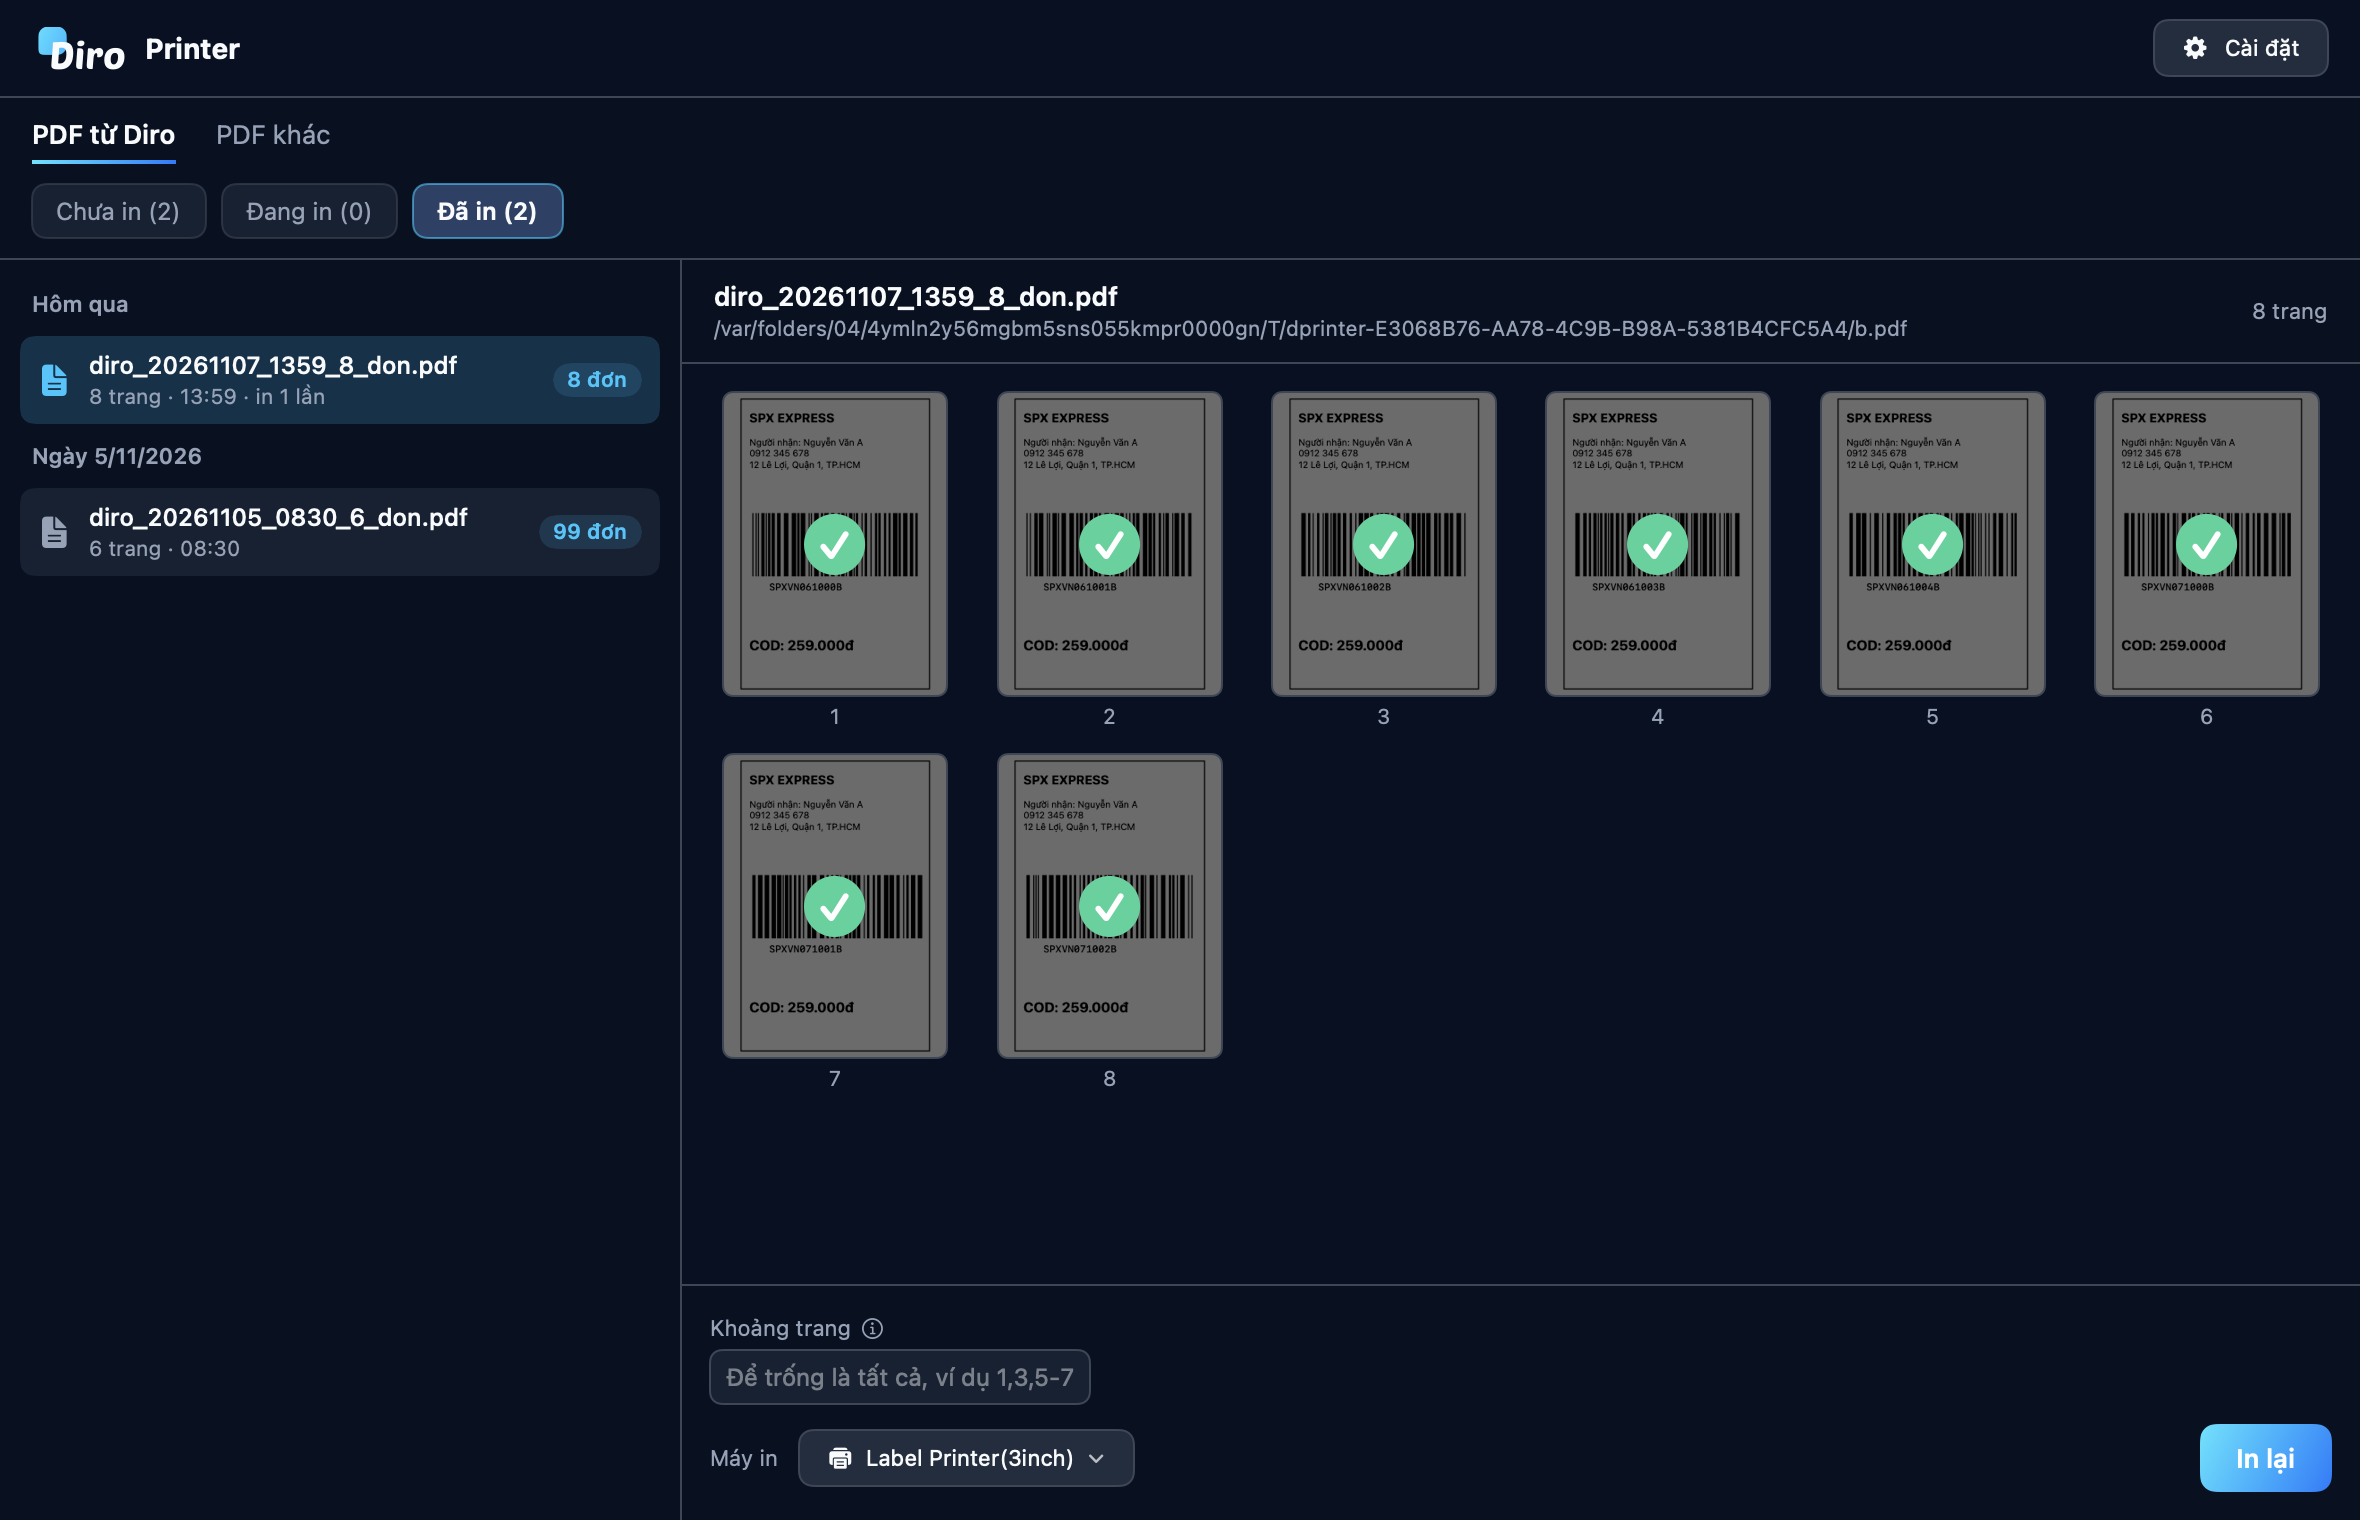
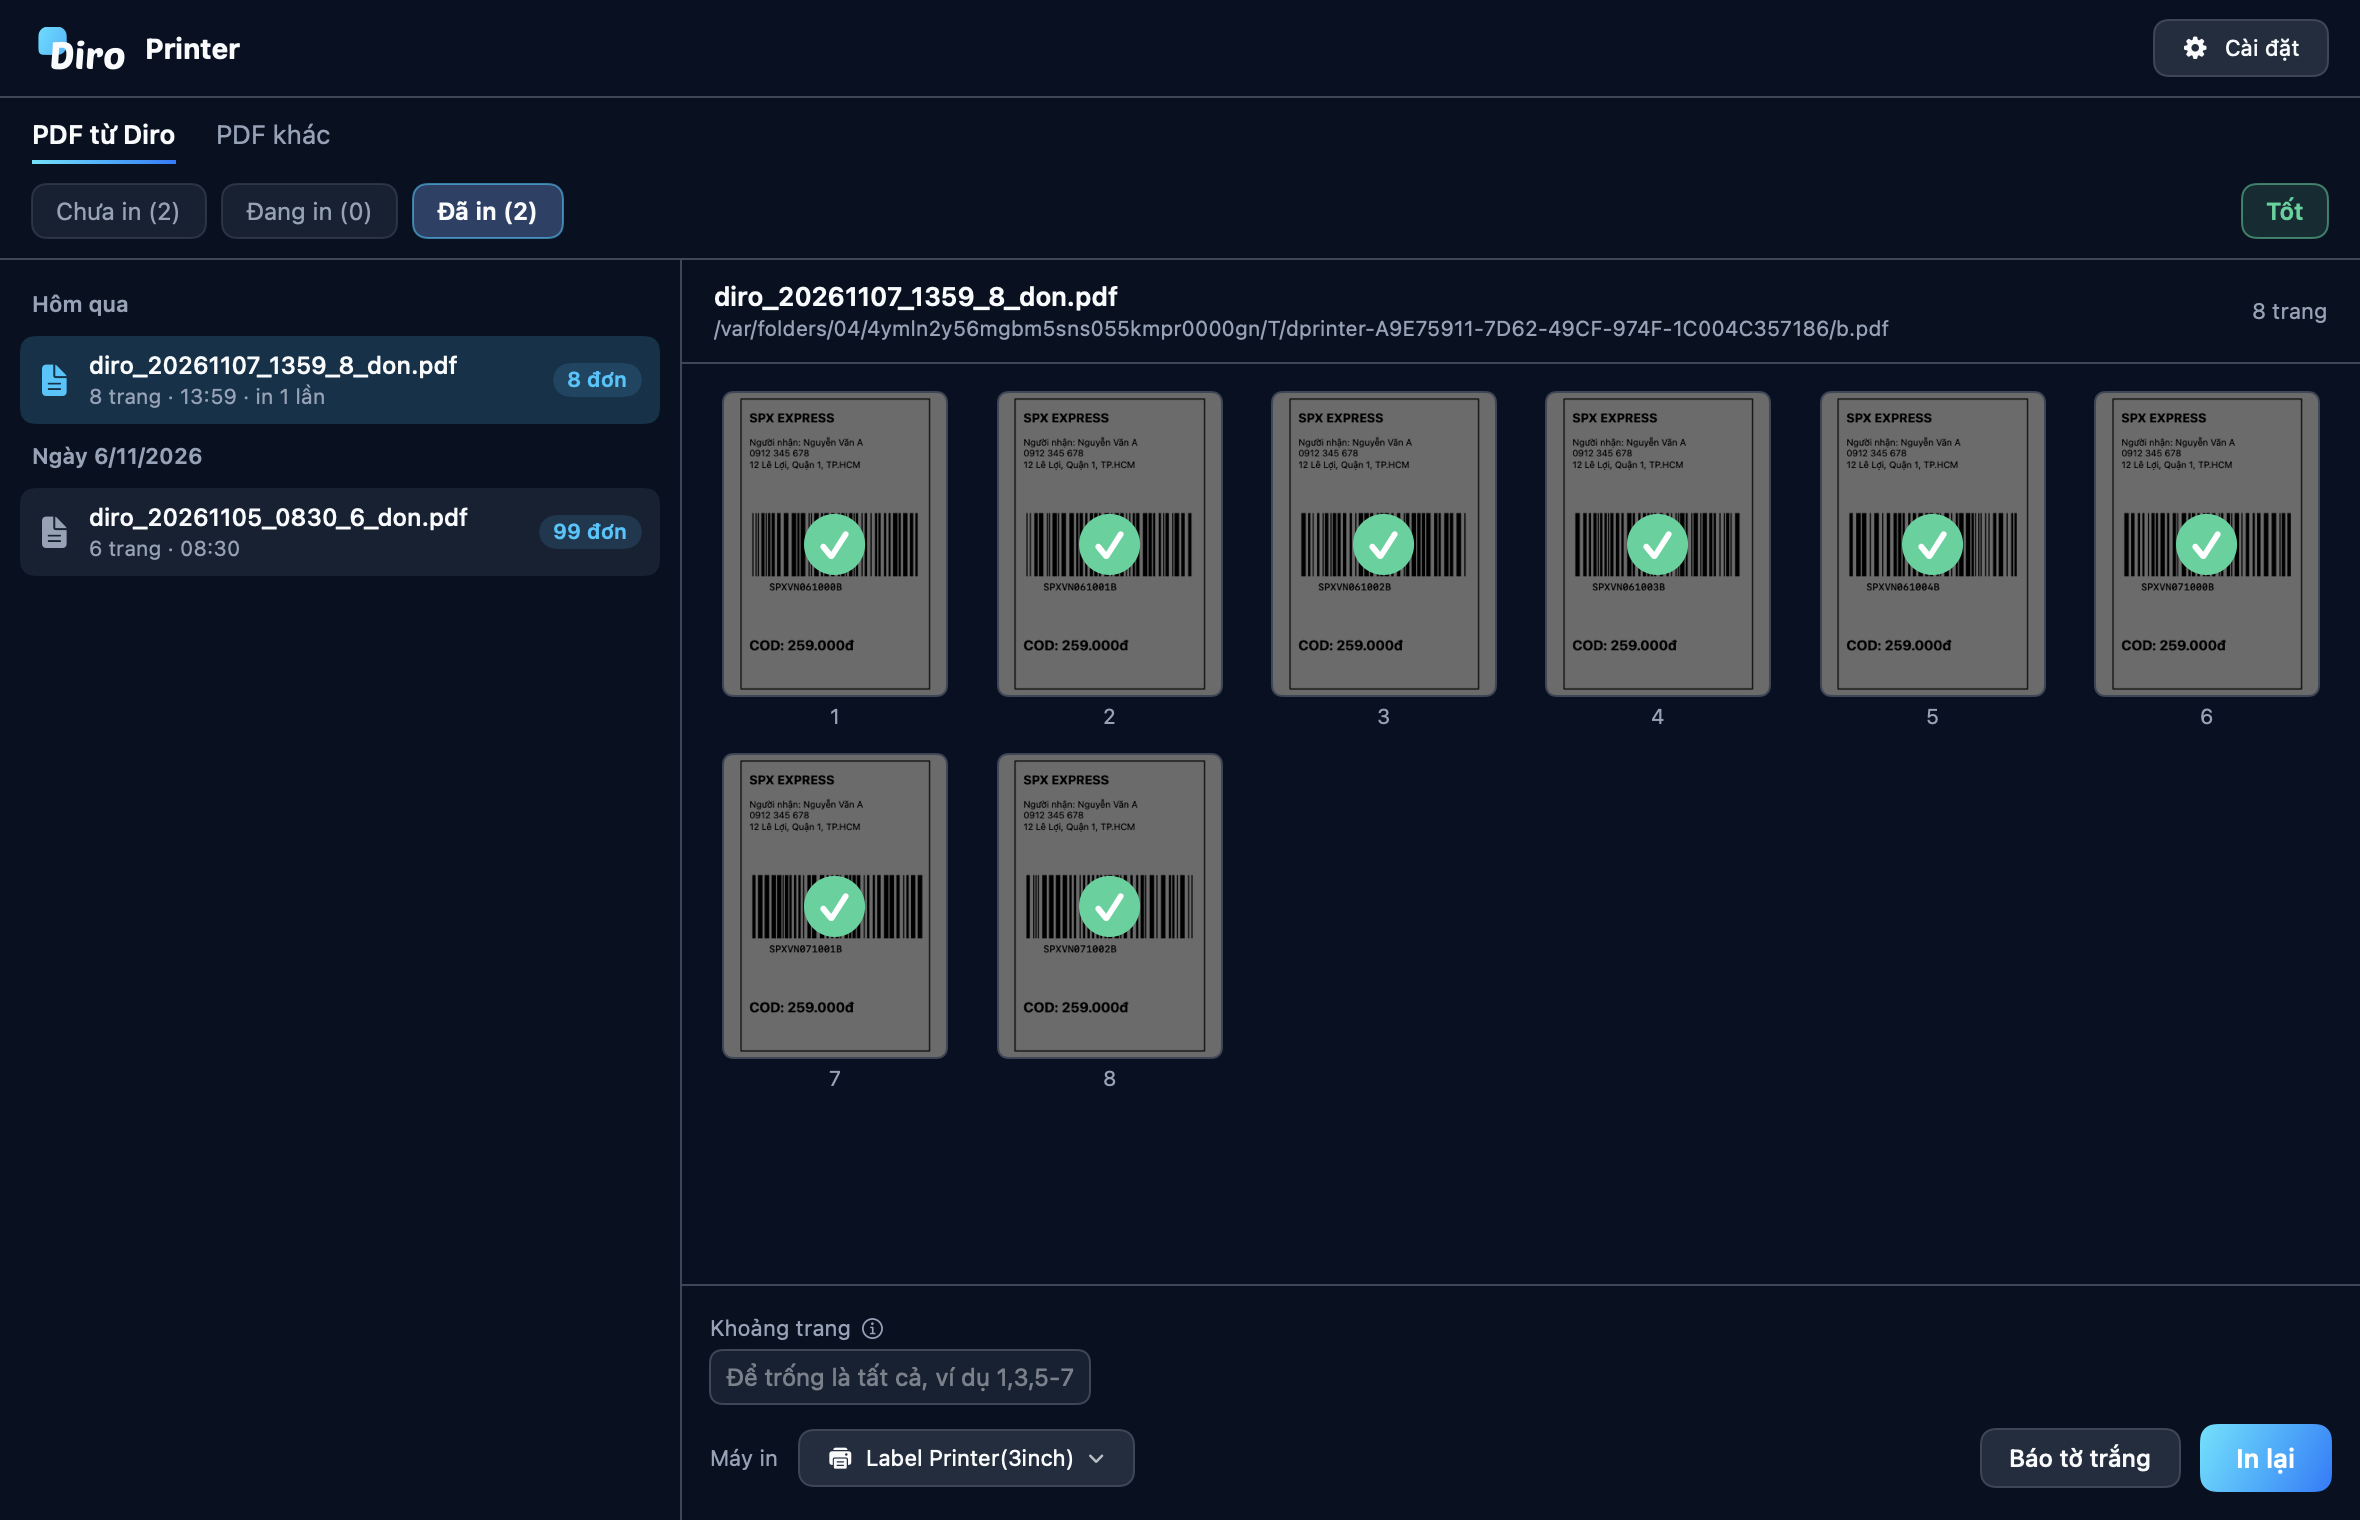
Diro Printer 1.2.0: Chờ in, nhãn in trùng, tự cập nhật, báo tờ trắng
Claude-Session: https://claude.ai/code/session_01L54VTFkUi7sp8VuuFZPF3U

Changed region(s): [[0.8352, 0.9276, 0.928, 0.9895], [0.928, 0.1237, 0.9898, 0.1546], [0.7114, 0.1855, 0.7733, 0.2164]]

diff --git a/docs/tien-ich/diro-printer.md b/docs/tien-ich/diro-printer.md
@@ -28,10 +28,10 @@ bấm **In**. Phần mềm không cần đăng nhập.
 
 | Máy của bạn | Bấm để tải | Sau khi tải xong |
 |---|---|---|
-| **Windows 10 / 11** | **[⬇ TẢI CHO WINDOWS](https://github.com/nhatduy129/diro-printer/releases/download/v1.1.0/DiroPrinter-1.1.0-win-x64.zip)**<br />`DiroPrinter-1.1.0-win-x64.zip` · ≈64 MB | **Giải nén** rồi bấm đúp `DiroPrinter.exe`, **không cần cài đặt** |
-| **macOS 14 trở lên**<br />(cả Apple Silicon và Intel) | **[⬇ TẢI CHO macOS](https://github.com/nhatduy129/diro-printer/releases/download/v1.1.0/DiroPrinter-1.1.0-macos.zip)**<br />`DiroPrinter-1.1.0-macos.zip` · ≈1,9 MB | **Giải nén** rồi kéo `Diro Printer.app` vào thư mục **Applications** |
+| **Windows 10 / 11** | **[⬇ TẢI CHO WINDOWS](https://github.com/nhatduy129/diro-printer/releases/download/v1.2.0/DiroPrinter-1.2.0-win-x64.zip)**<br />`DiroPrinter-1.2.0-win-x64.zip` · ≈64 MB | **Giải nén** rồi bấm đúp `DiroPrinter.exe`, **không cần cài đặt** |
+| **macOS 14 trở lên**<br />(cả Apple Silicon và Intel) | **[⬇ TẢI CHO macOS](https://github.com/nhatduy129/diro-printer/releases/download/v1.2.0/DiroPrinter-1.2.0-macos.zip)**<br />`DiroPrinter-1.2.0-macos.zip` · ≈2,2 MB | **Giải nén** rồi kéo `Diro Printer.app` vào thư mục **Applications** |
 
-Số `1.1.0` trong tên file là **phiên bản**. Xem các bản phát hành khác tại
+Số `1.2.0` trong tên file là **phiên bản**. Xem các bản phát hành khác tại
 [trang Releases](https://github.com/nhatduy129/diro-printer/releases).
 
 :::note Cách giải nén
@@ -148,6 +148,36 @@ nằm trong **PDF từ Diro** nhờ tên file, nhưng không so trùng được.
 
 ---
 
+## 📊 Nhãn in trùng trong 24 giờ
+
+Bên phải hàng **Chưa in**, **Đang in**, **Đã in** có một nhãn cho biết máy này đã in trùng tem nào trong 24 giờ qua:
+
+| Nhãn | Ý nghĩa |
+|---|---|
+| **Tốt** (xanh) | Không có tem đơn nào in bị trùng |
+| **Có X đơn in bị trùng** (vàng) | Từ 1 đến 4 đơn có tem được in từ 2 lần trở lên |
+| **Có X đơn in bị trùng** (đỏ) | Từ 5 đơn trở lên |
+
+Rê chuột vào nhãn để xem mã vận đơn và số lần in. In lại có chủ đích cũng được tính.
+
+:::note Mỗi máy đếm riêng
+Nhãn chỉ tính những lần in trên chính máy đó. Hai máy khác nhau không thấy số của nhau.
+:::
+
+---
+
+## ✅ Đơn tự chuyển sang Đã in
+
+Trên Diro, vào **Thiết lập → Mẫu in & thiết lập Diro Printer**, tab **Thiết lập Diro Printer**, bật **In đơn (file PDF) thông qua Diro Printer**.
+
+Từ lúc đó, đơn đã xuất PDF sẽ ở trạng thái **Chờ in**. In xong tờ tem vận đơn bằng Diro Printer, đơn tự chuyển sang **Đã in**. Máy mất mạng vẫn in bình thường, có mạng lại phần mềm tự báo tiếp.
+
+:::warning Cài Diro Printer 1.2.0 trước khi bật
+Bản cũ hơn không báo trạng thái về Diro. Đơn in bằng phần mềm khác sẽ ở Chờ in cho tới khi hãng vận chuyển lấy hàng.
+:::
+
+---
+
 ## 🔁 In tiếp và in lại
 
 ![Mục Đã in](printer-03-da-in.png)
@@ -210,6 +240,14 @@ có bản sao file PDF, nên không có tên, số điện thoại hay địa ch
 
 ---
 
+## ⬆ Nâng cấp phần mềm
+
+Từ bản 1.2.0, khi có phiên bản mới phần mềm sẽ hỏi **Bỏ qua** hay **Nâng cấp**. Bấm **Nâng cấp** là phần mềm tự tải, tự thay bản mới rồi mở lại, lịch sử in vẫn giữ nguyên. Bấm **Bỏ qua** thì lần mở sau sẽ hỏi lại.
+
+Đang in thì chưa nâng cấp được, hãy chờ in xong. Trên Windows, nếu báo không ghi được vào thư mục, hãy chuyển `DiroPrinter.exe` ra Desktop rồi thử lại.
+
+---
+
 ## ❓ Gặp trục trặc
 
 **Không thấy file vừa xuất từ Diro**
@@ -219,6 +257,9 @@ thêm quyền thư mục ở phần trên.
 
 **Không thấy máy in vừa cắm**
 Bản Windows chỉ đọc danh sách máy in lúc mở phần mềm, hãy tắt phần mềm rồi mở lại.
+
+**Máy in ra tờ tem trắng**
+Bấm **Báo tờ trắng** ngay khi thấy, phần mềm sẽ ghi lại thời điểm và trang đó. Sau đó [xuất nhật ký](#-gửi-nhật-ký-cho-diro-khi-in-gặp-sự-cố) gửi cho đội Diro. Thường gặp do cảm biến khe hở của máy in, hãy thử hiệu chỉnh (calibrate) và lau cảm biến.
 
 **Tem bị lệch hoặc sai khổ**
 Kiểm tra khổ giấy trong phần cài đặt máy in của Windows hoặc macOS. Với PDF khác,
